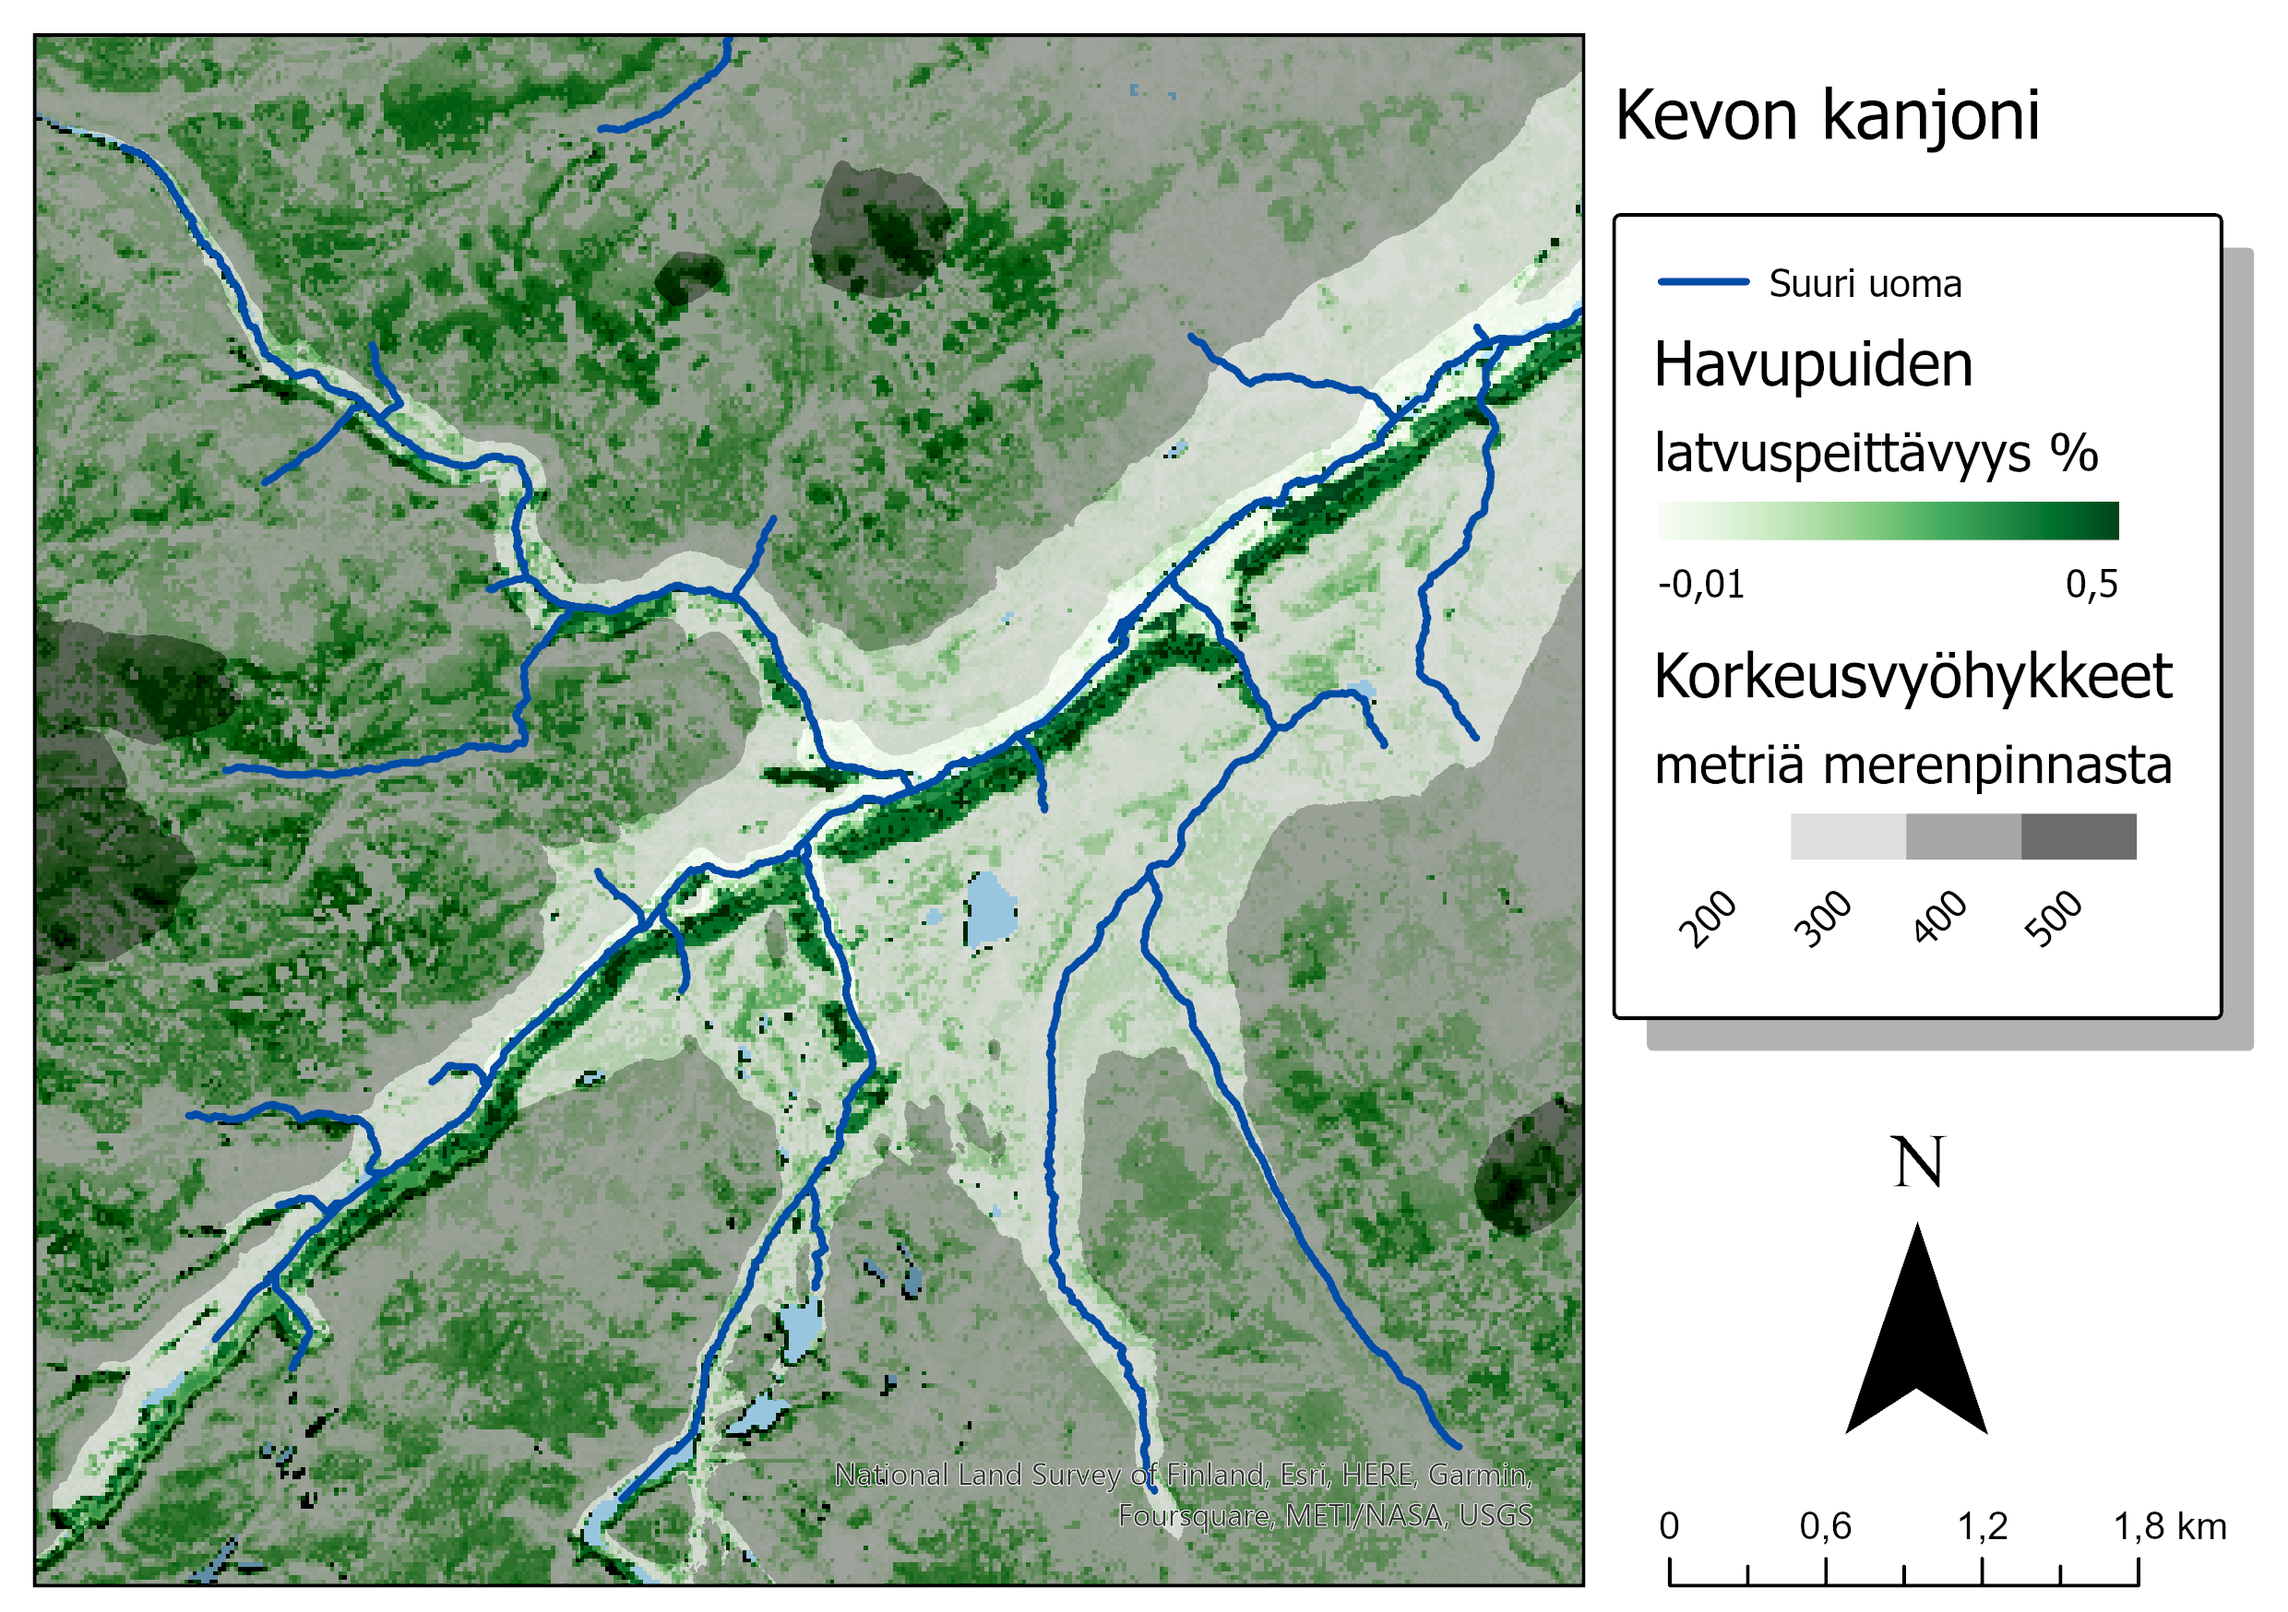
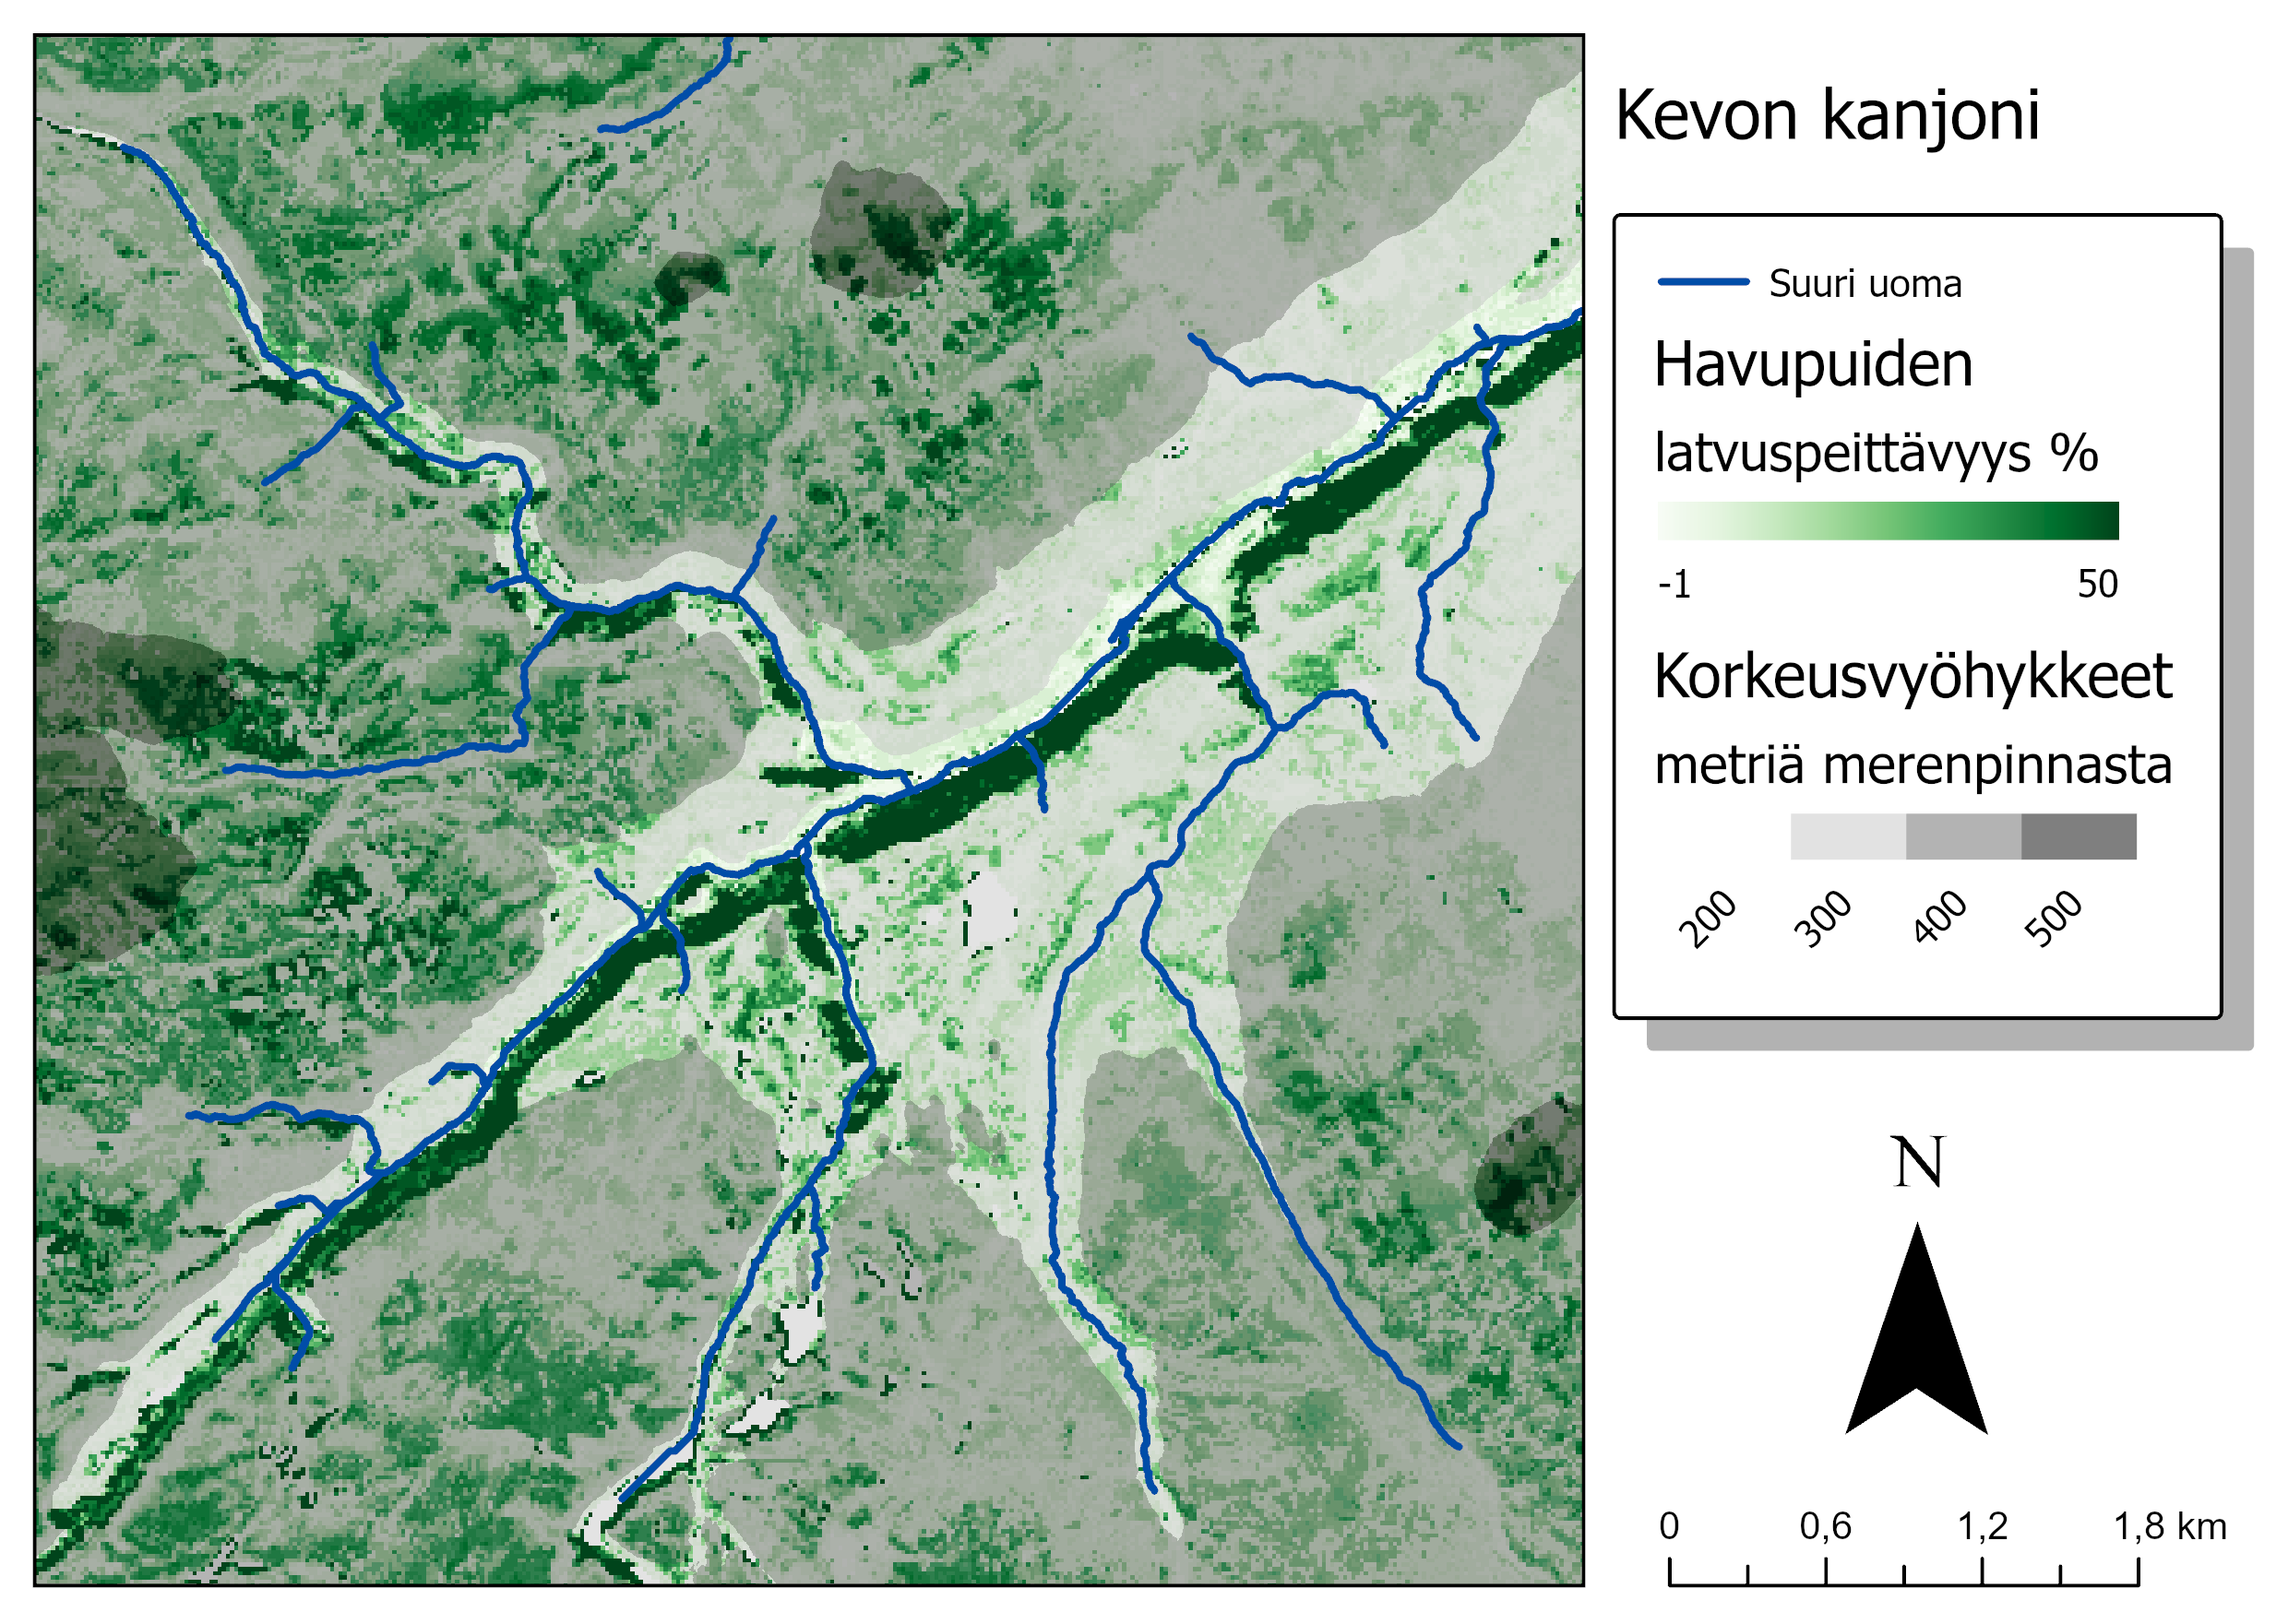
GIS 2 wk3

diff --git a/_posts/2023-11-20-Rasterianalyyseja.md b/_posts/2023-11-20-Rasterianalyyseja.md
@@ -1,0 +1,125 @@
+---
+title: '2.3 Rasterianalyysejä'
+date: 2023-11-20
+layout: post
+---
+
+Kolmannella viikolla jatkettiin Kevon kanjonin alueen tutkimista erilaisten rasterianalyysien muodossa. Käytössä oli monta aineistoa eri puulajien biomassoista alueella, sekä edellisellä viikolla käytetty korkeusdata ja siitä johdetut potentieaaliset uomat.
+
+<!--excerpt_end-->
+
+## Aineistot
+
+Biomassa-aineistojen yhteydestä löytyi _README_-tiedosto, jossa oli kuvailtu aineistoa ja miten se oli tuotettu. Aineiston tuottamisessa oli hyödynnetty hyödynnetty maastomittauksia yhdessä Sentinel-2 satelliittien monispektri-instrumenteilla (_MSI_[^1]) ja Landsat 8 satelliitin operatiivisella maankuvaajalla (_OLI_[^2]) kerättyjen kuvien kanssa. Kartat toteutettiin pääasiassa vuoden 2019 mittauksilla ja puuttuvaa dataa täydennettiin vuosien 2013, 2015 ja 2017 tuloksilla. Lopputuotoksessa biomassan yksikkönä on _10kg/ha_ ja rasterin spatiaalinen resoluutio on _16m\*16m_.
+
+### Kokonaisbiomassat
+
+Biomassa-aineistot oli jaoteltu puulajien mukaan lehtipuihin, mäntyihin ja kuusiin. Jokaisella puulajilla oli vielä erilliset tiedostot eläville oksille, yli 1cm halkaisijaltaan oleville juurille, kannoille, kuolleille oksille, hukkapuuosalle, lehvästölle ja kuorelliselle runkopuulle. Näiden tiedostojen avulla jokaiselle puulajille laskettiin kokonaisbiomassa _Raster Calculator_ -työkalulla. Laskun yhteydessä biomassa-arvot muunnettiin muotoon _t/ha_.
+
+<img src="{{ site.base_url }}{% link /assets/imgs/GIS2/wk3/bm.gif %}" border="1">
+
+> Eri puutyyppien biomassa Kevon kanjonin alueella
+
+Lataa yksittäiset kartat: <a href="{{ site.base_url }}{% link /assets/imgs/GIS2/wk3/bm_lp.png %}" download>Lehtipuut</a> | <a href="{{ site.base_url }}{% link /assets/imgs/GIS2/wk3/bm_ma.png %}" download>Männyt</a> | <a href="{{ site.base_url }}{% link /assets/imgs/GIS2/wk3/bm_ku.png %}" download>Kuuset</a>
+
+Biomassakartoista voi huomata, että lehtipuut viihtyvät paremmin valoisilla rinteillä, jotka osoittava kohti etelää, kun taas havupuita on enemmän pohjoiseen osoittavilla varjoisemmilla rinteillä. Kuvista on selvää, että lehtipuut menestyvät laajimmalla alueella ja näin todennäköisesti biomassaa on myös eniten, mutta männyillä on enemmän biomassaa niiden kaikista vehreimmillä alueilla. Kuusi näyttää pärjäävän heikoiten ja tiiviimpiä rykelmiä löytyykin vain aivan kanjonin pohjalla virtaavan uoman tuntumasta. Todennäköisesti muut alueet ovatkin liian karuja kosteammasta maaperästä nauttivalle kuuselle.
+
+### Uomien etäisyysvyöhykkeet
+
+Seuraavassa työvaiheessa hyödynnettiin edellisen viikon suurimpia potentiaalisia uomia. Ensin jokaiselle pikselille laskettiin etäisyysarvo lähimpään uomaan _Euclidean distance_ -työkalulla.
+
+<img src="{{ site.base_url }}{% link /assets/imgs/GIS2/wk3/EuclideanDist.PNG %}" border="1">
+
+> Etäisyysarvot suurista potentiaalisista uomista
+
+Syntyneestä aineistosta saatiin helposti laskettua parin sadan metrin etäisyys vyöhykkeet edelliseltä viikolta tutulla _Reclassify_-työkalulla.
+
+<img src="{{ site.base_url }}{% link /assets/imgs/GIS2/wk3/EuclideanDistReclass.PNG %}" border="1">
+
+> Etäisyys vyöhykkeet suurten potentiaalisten uomien ympärillä
+
+Viimeiseksi hyödynnettiin aiemmin luotuja kokonaisbiomassoja etäisyysvyöhykkeiden kanssa ja tuotettiin _Zonal statistics as Table_ -työkalulla taulukot, joissa on kirjattuna biomassa-aineistojen tilastollisia tunnuslukuja eri etäisyysvyöhykkeillä.
+
+#### Biomassa lehtipuut
+
+| Etäisyys uomasta (m) | min (t/ha) | max (t/ha) | Keskiarvo (t/ha) | Keskihajonta (t/ha) | Summa (t)    |
+| -------------------- | ---------- | ---------- | ---------------- | ------------------- | ------------ |
+| 0 - 200              | 0          | 65,58      | 4,14             | 6,98                | 190 617,76   |
+| 200 - 400            | 0          | 39,49      | 1,22             | 3,95                | 46 587,51    |
+| 400 - 600            | 0          | 38,73      | 0,81             | 3,23                | 21 988,00    |
+| 600 - 800            | 0          | 39,26      | 0,86             | 3,29                | 14 267,28    |
+| 800 - 1000           | 0          | 32,23      | 0,56             | 2,17                | 4 501,54     |
+| 1000 - 1300          | 0          | 13,49      | 0,31             | 1,17                | 1 036,89     |
+|                      |            |            |                  |                     | = 278 998,98 |
+
+#### Biomassa männyt
+
+| Etäisyys uomasta (m) | min (t/ha) | max (t/ha) | Keskiarvo (t/ha) | Keskihajonta (t/ha) | Summa (t)    |
+| -------------------- | ---------- | ---------- | ---------------- | ------------------- | ------------ |
+| 0 - 200              | 0          | 74,32      | 4,88             | 11,82               | 224 963,07   |
+| 200 - 400            | 0          | 73,72      | 0,60             | 4,37                | 22 785,87    |
+| 400 - 600            | 0          | 80,64      | 0,33             | 3,16                | 8 910,47     |
+| 600 - 800            | 0          | 67,73      | 0,32             | 3,09                | 5 349,98     |
+| 800 - 1000           | 0          | 72,84      | 0,58             | 4,49                | 4 601,29     |
+| 1000 - 1300          | 0          | 65,51      | 0,40             | 3,66                | 1 310,35     |
+|                      |            |            |                  |                     | = 267 921,03 |
+
+#### Biomassa kuuset
+
+| Etäisyys uomasta (m) | min (t/ha) | max (t/ha) | Keskiarvo (t/ha) | Keskihajonta (t/ha) | Summa (t)   |
+| -------------------- | ---------- | ---------- | ---------------- | ------------------- | ----------- |
+| 0 - 200              | 0          | 35,22      | 0,52             | 1,71                | 24 164,61   |
+| 200 - 400            | 0          | 11,53      | 0,02             | 0,33                | 865,34      |
+| 400 - 600            | 0          | 7,35       | 0,01             | 0,26                | 402,24      |
+| 600 - 800            | 0          | 6,16       | 0,02             | 0,29                | 303,79      |
+| 800 - 1000           | 0          | 6,44       | 0,04             | 0,40                | 294,60      |
+| 1000 - 1300          | 0          | 8,07       | 0,04             | 0,43                | 135,36      |
+|                      |            |            |                  |                     | = 26 165,94 |
+
+Taulukot vahvistavat jo kartoista tehdyt havainnot: kuusten kokonaisbiomassa on huomattavasti pienempi kuin lehtipuilla sekä männyillä. Ero on suurin piirtein kymmenkertainen. Lisäksi tiheimmät puustokeskittymät löytyvät selvästi uomien läheisyydestä kaikilla puulajeilla, mikä myös oli havaittavissa kartoista. Taulukkojen avulla voidaan siis todentaa, että karttavisualisoinneissa on onnistuttu keskeisen tiedon välittämisessä.
+
+### Korkeusvyöhykkeet ja latvuspeitto
+
+Viikon toista analyysiä varten oli käytössä latvuspeittävyys aineistot lehtipuista ja kaikista puista yhteensä. _README_-tiedosto tarjosi jälleen vastauksia aineiston varsinaisesta sisällöstä. Latvuspeittävyydellä kuvataan prosentteina kuinka suuren osuuden puuston latvusto peittää koko koealasta. Aineistoa varten oli toteutettu jälleen maastomittauksia, joiden avulla oli voitu arvioida muiden alueiden arvot geneettistä algoritmiä käyttäen[^3].
+
+Koska havupuille ei ollut omaa aineistoa, laskettiin se _Raster Calculator_ -työkalulla, vähentämällä lehtipuurasterin arvot kaikkien puiden yhteisrasterista.
+
+Tämän jälkeen tuotettiin korkeusvyöhykkeet käyttämällä _Reclassify_-työkalua korkeusmalliin, kuten aiemmassa anlyysissä tehtiin etäisyysrasterille.
+
+<img src="{{ site.base_url }}{% link /assets/imgs/GIS2/wk3/ZonalDEM.PNG %}" border="1">
+
+> Korkeusvyöhykkeet Kevon kanjonissa
+
+Vyöhykerasteria hyödyntäen saatiin jälleen laskettua tutkittavien aineistojen tunnusluvut taulukkoon.
+
+#### Latvuspeitto lehtipuut
+
+| Korkeus (m) | min (%) | max (%) | Keskiarvo (%) | Mediaani (%) | Keskihajonta (%) |
+| ----------- | ------- | ------- | ------------- | ------------ | ---------------- |
+| 0 - 200     | 0       | 51      | 15,13         | 13           | 11,42            |
+| 200 - 300   | 0       | 49      | 8,08          | 5            | 8,13             |
+| 300 - 400   | 0       | 42      | 6,63          | 6            | 5,09             |
+| 400 - 500   | 0       | 20      | 7,50          | 8            | 4,35             |
+
+#### Latvuspeitto havupuut
+
+| Korkeus (m) | min (%) | max (%) | Keskiarvo (%) | Mediaani (%) | Keskihajonta (%) |
+| ----------- | ------- | ------- | ------------- | ------------ | ---------------- |
+| 0 - 200     | −1      | 50      | 8,02          | 3            | 9,68             |
+| 200 - 300   | −1      | 46      | 4,75          | 2            | 6,24             |
+| 300 - 400   | −1      | 47      | 5,40          | 4            | 4,31             |
+| 400 - 500   | 0       | 20      | 7,14          | 7            | 4,28             |
+
+Havupuutaulukosta huomataan, että osa arvoista on miinusmerkkisiä, tosin vain yhden prosentin verran. Tämä johtuu todennäköisesti siitä, että alkuperäiset aineistot on tuotettu vain yhden prosentin tarkkuudella. Kun lehtipuiden latvuspeitto vähennettiin kaikkien puiden yhteispeitosta, osui joissakin kohdissa aineistoja kohdilleen pikselit, joiden arvot on pyöristetty eri suuntiin.
+
+Harjoituksen päätteeksi tulokset vielä visualisoitiin kartoiksi.
+
+<img src="{{ site.base_url }}{% link /assets/imgs/GIS2/wk3/latvus_lehtip.png %}" border="1">
+
+<img src="{{ site.base_url }}{% link /assets/imgs/GIS2/wk3/latvus_havup.png %}" border="1">
+
+---
+
+[^1]: MultiSpectral Instrument [https://sentinel.esa.int/web/sentinel/missions/sentinel-2/instrument-payload](https://sentinel.esa.int/web/sentinel/missions/sentinel-2/instrument-payload)
+[^2]: Operational Land Imager [https://earth.esa.int/eogateway/instruments/oli-landsat-8-](https://earth.esa.int/eogateway/instruments/oli-landsat-8-)
+[^3]: Tomppo, E. & Halme, M. 2004. Using coarse scale forest variables as ancillary information and weighting of variables in k-NN estimation: a genetic algorithm approach. Remote Sensing of Environment 92: 1-20.
